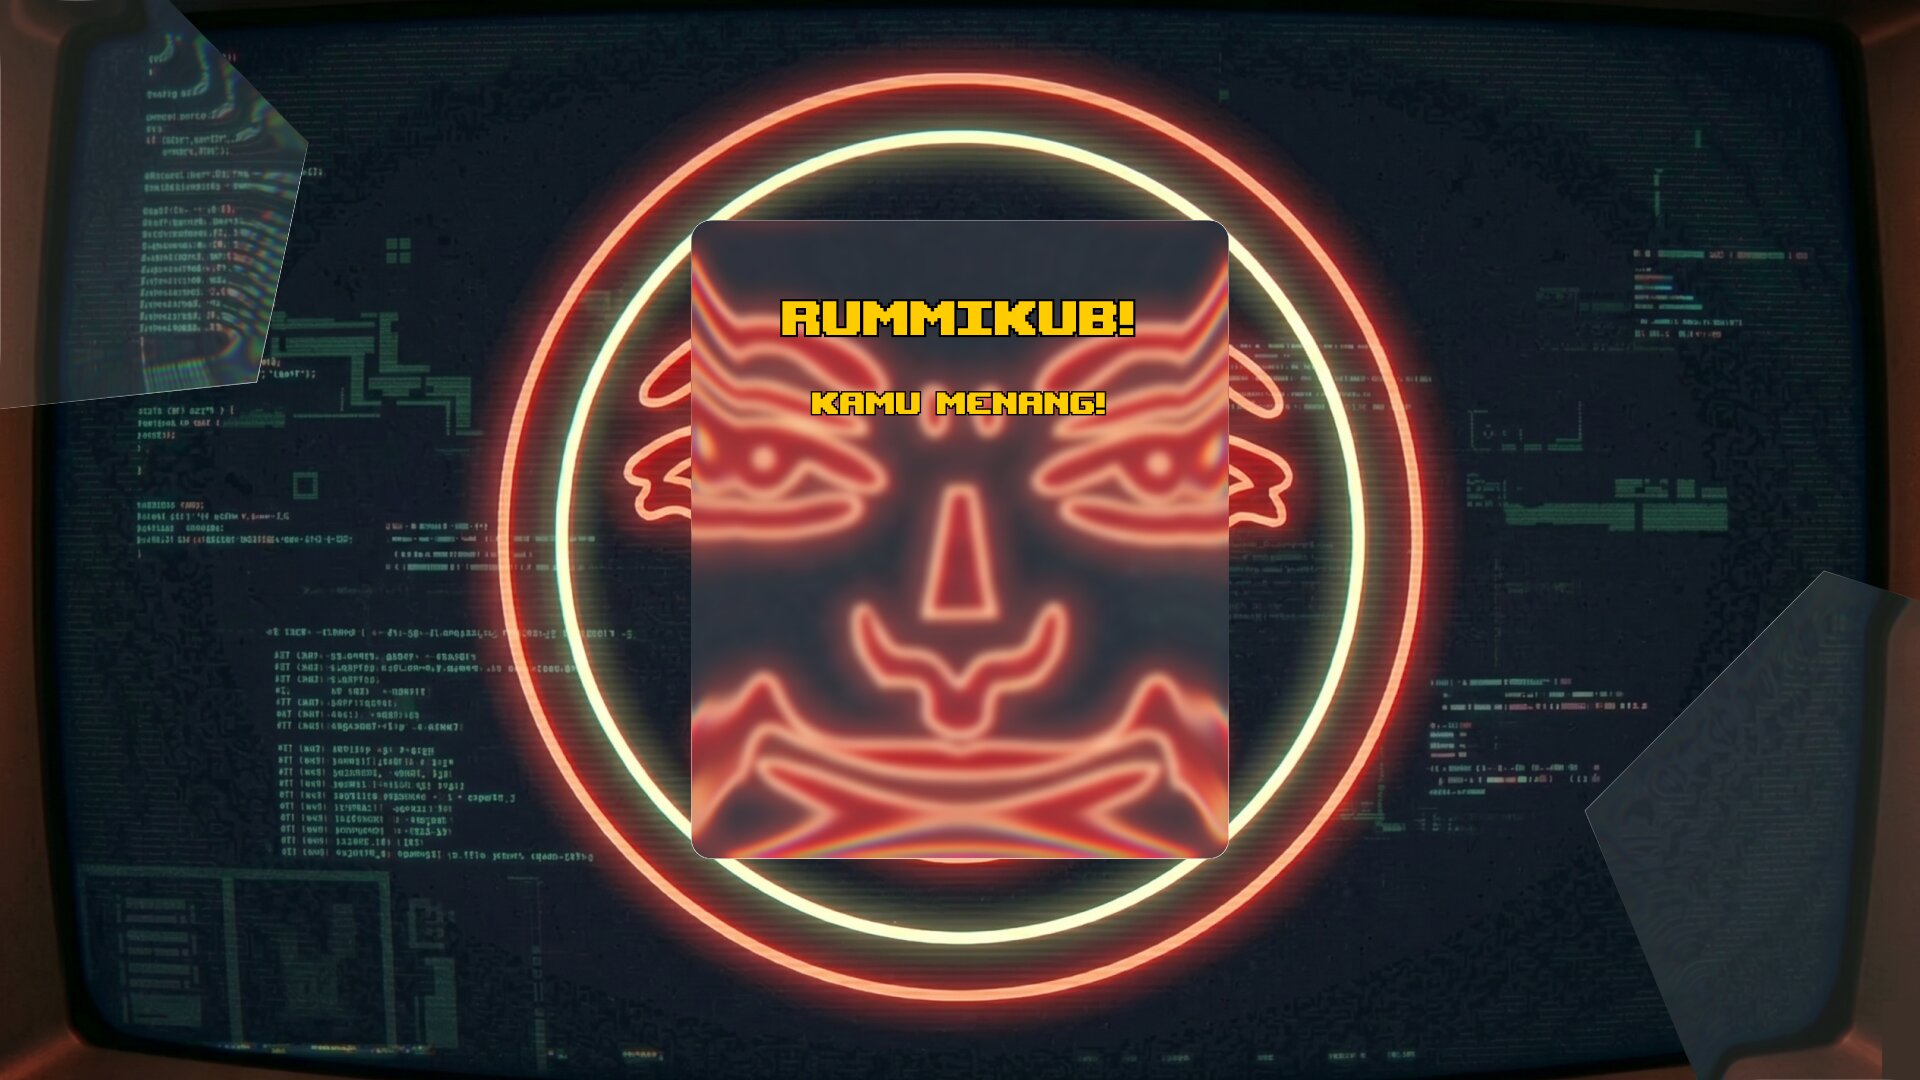
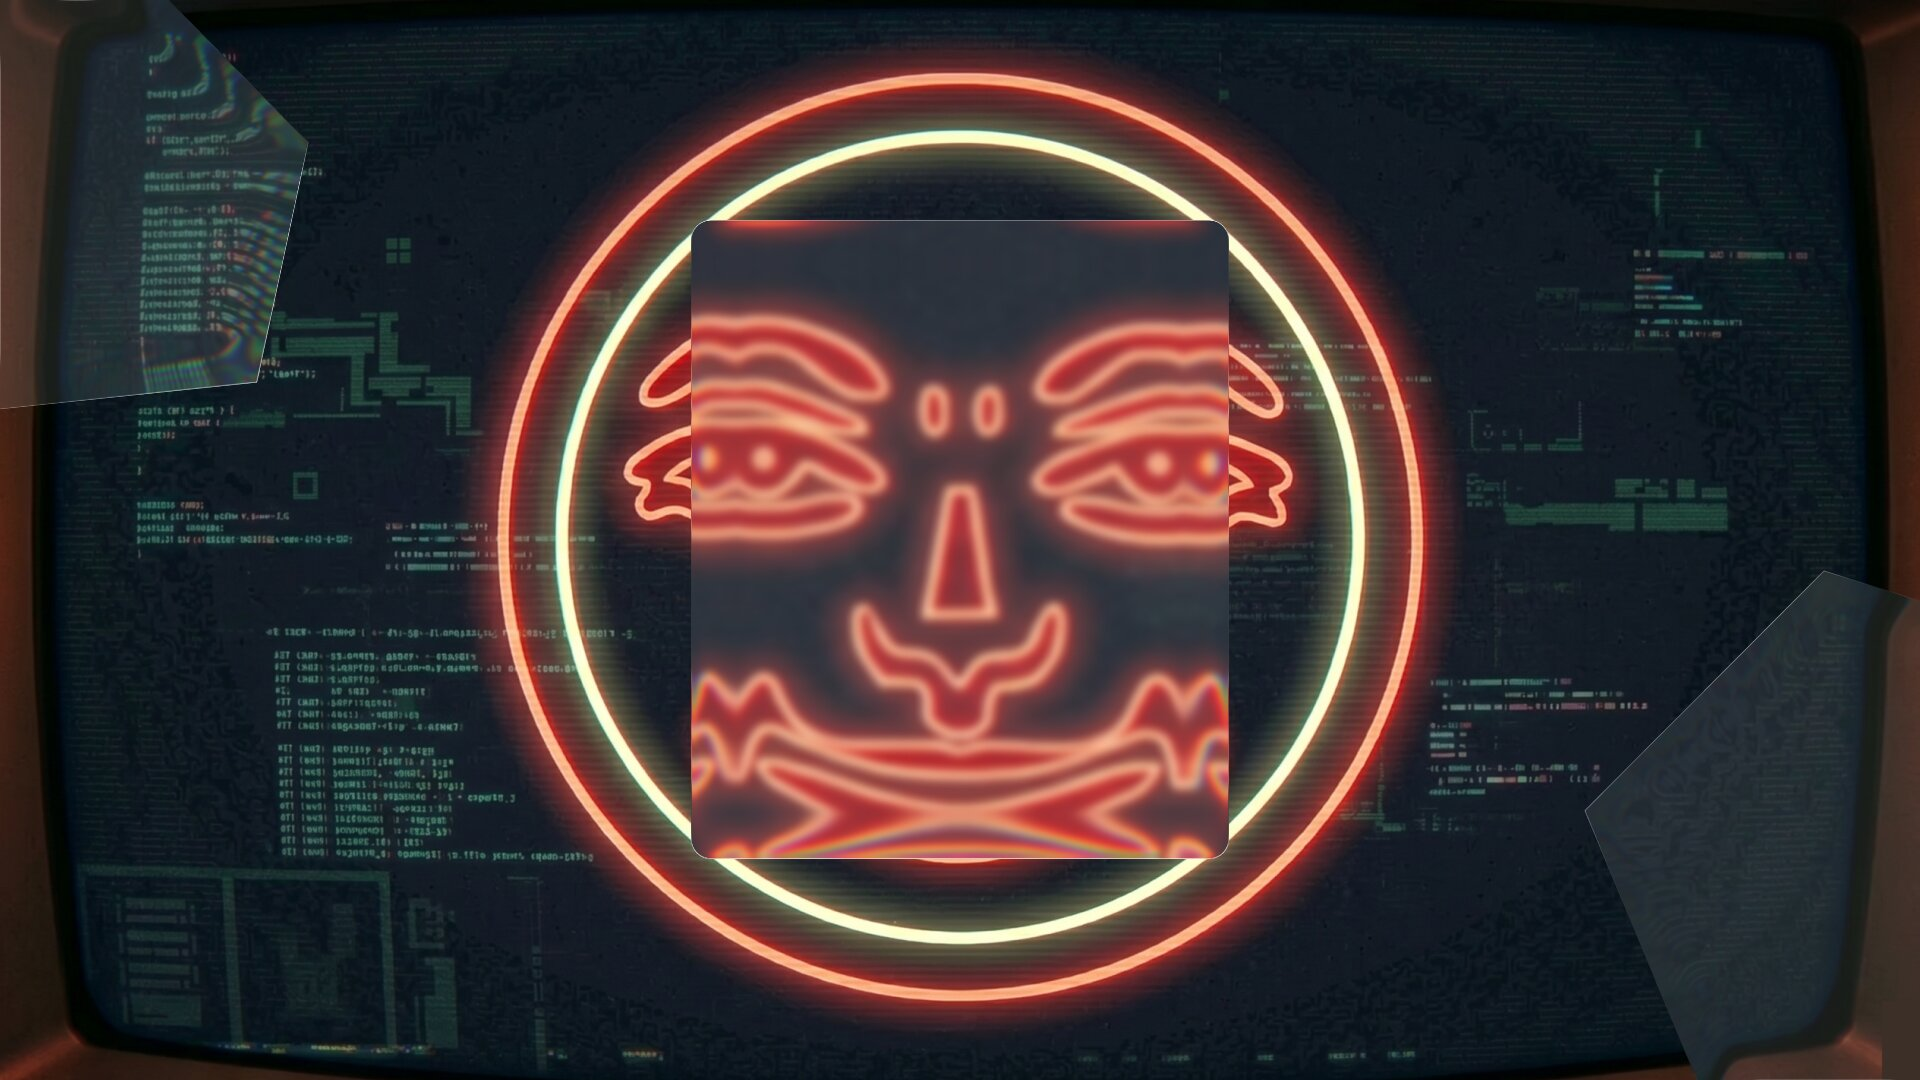
Working background image and fonts. Blm final

Changed region(s): [[0.3438, 0.1833, 0.6562, 0.4583], [0.5938, 0.6111, 0.6562, 0.7944], [0.3438, 0.6111, 0.4062, 0.7944]]

diff --git a/Game/core/src/main/java/com/rummikub/utils/ResourcePool.java b/Game/core/src/main/java/com/rummikub/utils/ResourcePool.java
@@ -16,11 +16,12 @@ public class ResourcePool {
     private BitmapFont font;
     private TextureAtlas tileAtlas;
     private TextureAtlas uiAtlas;
+
     private com.badlogic.gdx.graphics.Texture bgLogin;
     private com.badlogic.gdx.graphics.Texture bgLobby;
     private com.badlogic.gdx.graphics.Texture bgWaitingRoom;
     private com.badlogic.gdx.graphics.Texture bgGameOver;
-    private BitmapFont customFont;
+    private com.badlogic.gdx.graphics.g2d.BitmapFont customFont;
 
     private ResourcePool() {}
 
@@ -63,35 +64,35 @@ public class ResourcePool {
 
     public com.badlogic.gdx.graphics.Texture getBgLogin() {
         if (bgLogin == null) {
-            bgLogin = new com.badlogic.gdx.graphics.Texture(Gdx.files.internal("bg_loginscreen.jpg"));
+            bgLogin = new com.badlogic.gdx.graphics.Texture("bg_loginscreen.jpg");
         }
         return bgLogin;
     }
 
     public com.badlogic.gdx.graphics.Texture getBgLobby() {
         if (bgLobby == null) {
-            bgLobby = new com.badlogic.gdx.graphics.Texture(Gdx.files.internal("bg_lobby.jpg"));
+            bgLobby = new com.badlogic.gdx.graphics.Texture("bg_lobby.jpg");
         }
         return bgLobby;
     }
 
     public com.badlogic.gdx.graphics.Texture getBgWaitingRoom() {
         if (bgWaitingRoom == null) {
-            bgWaitingRoom = new com.badlogic.gdx.graphics.Texture(Gdx.files.internal("bg_waitingroom.jpg"));
+            bgWaitingRoom = new com.badlogic.gdx.graphics.Texture("bg_waitingroom.jpg");
         }
         return bgWaitingRoom;
     }
 
     public com.badlogic.gdx.graphics.Texture getBgGameOver() {
         if (bgGameOver == null) {
-            bgGameOver = new com.badlogic.gdx.graphics.Texture(Gdx.files.internal("bg_gameover.jpg"));
+            bgGameOver = new com.badlogic.gdx.graphics.Texture("bg_gameover.jpg");
         }
         return bgGameOver;
     }
 
-    public BitmapFont getCustomFont() {
+    public com.badlogic.gdx.graphics.g2d.BitmapFont getCustomFont() {
         if (customFont == null) {
-            customFont = new BitmapFont(Gdx.files.internal("myfont.fnt"));
+            customFont = new com.badlogic.gdx.graphics.g2d.BitmapFont(com.badlogic.gdx.Gdx.files.internal("myfont.fnt"));
         }
         return customFont;
     }

diff --git a/Game/core/src/main/java/com/rummikub/utils/Constants.java b/Game/core/src/main/java/com/rummikub/utils/Constants.java
@@ -3,8 +3,6 @@ package com.rummikub.utils;
 import com.badlogic.gdx.graphics.Color;
 
 public class Constants {
-    public static final float VIRTUAL_WIDTH = 1920f;
-    public static final float VIRTUAL_HEIGHT = 1080f;
     public static final String BASE_URL = "http://localhost:3000";
     public static final int SCREEN_WIDTH = 1280;
     public static final int SCREEN_HEIGHT = 720;
@@ -13,6 +11,8 @@ public class Constants {
     public static final int RACK_Y = 20;
     public static final int POLL_INTERVAL_SECONDS = 2;
     public static final int TURN_TIMER_SECONDS = 120;
+    public static final float VIRTUAL_WIDTH = 1920f;
+    public static final float VIRTUAL_HEIGHT = 1080f;
     
     // Warna tile sebagai LibGDX Color
     public static final Color COLOR_RED    = new Color(0.85f, 0.15f, 0.15f, 1f);

diff --git a/Game/core/src/main/java/com/rummikub/screens/GameOverScreen.java b/Game/core/src/main/java/com/rummikub/screens/GameOverScreen.java
@@ -45,7 +45,6 @@ public class GameOverScreen extends BaseScreen {
         Label titleLabel = makeLabel(iWon ? "RUMMIKUB!" : "GAME SELESAI");
         titleLabel.setFontScale(2.5f);
         titleLabel.setColor(iWon ? Color.YELLOW : Color.WHITE);
-        titleLabel.setVisible(false);
 
         // ---- Winner label ----
         Label winnerLabel;
@@ -56,7 +55,6 @@ public class GameOverScreen extends BaseScreen {
         }
         winnerLabel.setColor(iWon ? Color.GREEN : Color.LIGHT_GRAY);
         winnerLabel.setFontScale(1.3f);
-        winnerLabel.setVisible(false);
 
         // ---- Participant list ----
         Label participantsTitle = makeLabel("Peserta:");

diff --git a/Game/core/src/main/java/com/rummikub/screens/BaseScreen.java b/Game/core/src/main/java/com/rummikub/screens/BaseScreen.java
@@ -156,7 +156,7 @@ public abstract class BaseScreen implements Screen {
     // Buat button style. Menggunakan shared font dari ResourcePool dan TextureCache
     protected TextButton.TextButtonStyle makeButtonStyle(Color buttonColor) {
         TextButton.TextButtonStyle style = new TextButton.TextButtonStyle();
-        style.font      = ResourcePool.getInstance().getFont();
+        style.font      = ResourcePool.getInstance().getCustomFont();
         style.fontColor = Color.WHITE;
 
         TextureCache tc = TextureCache.getInstance();
